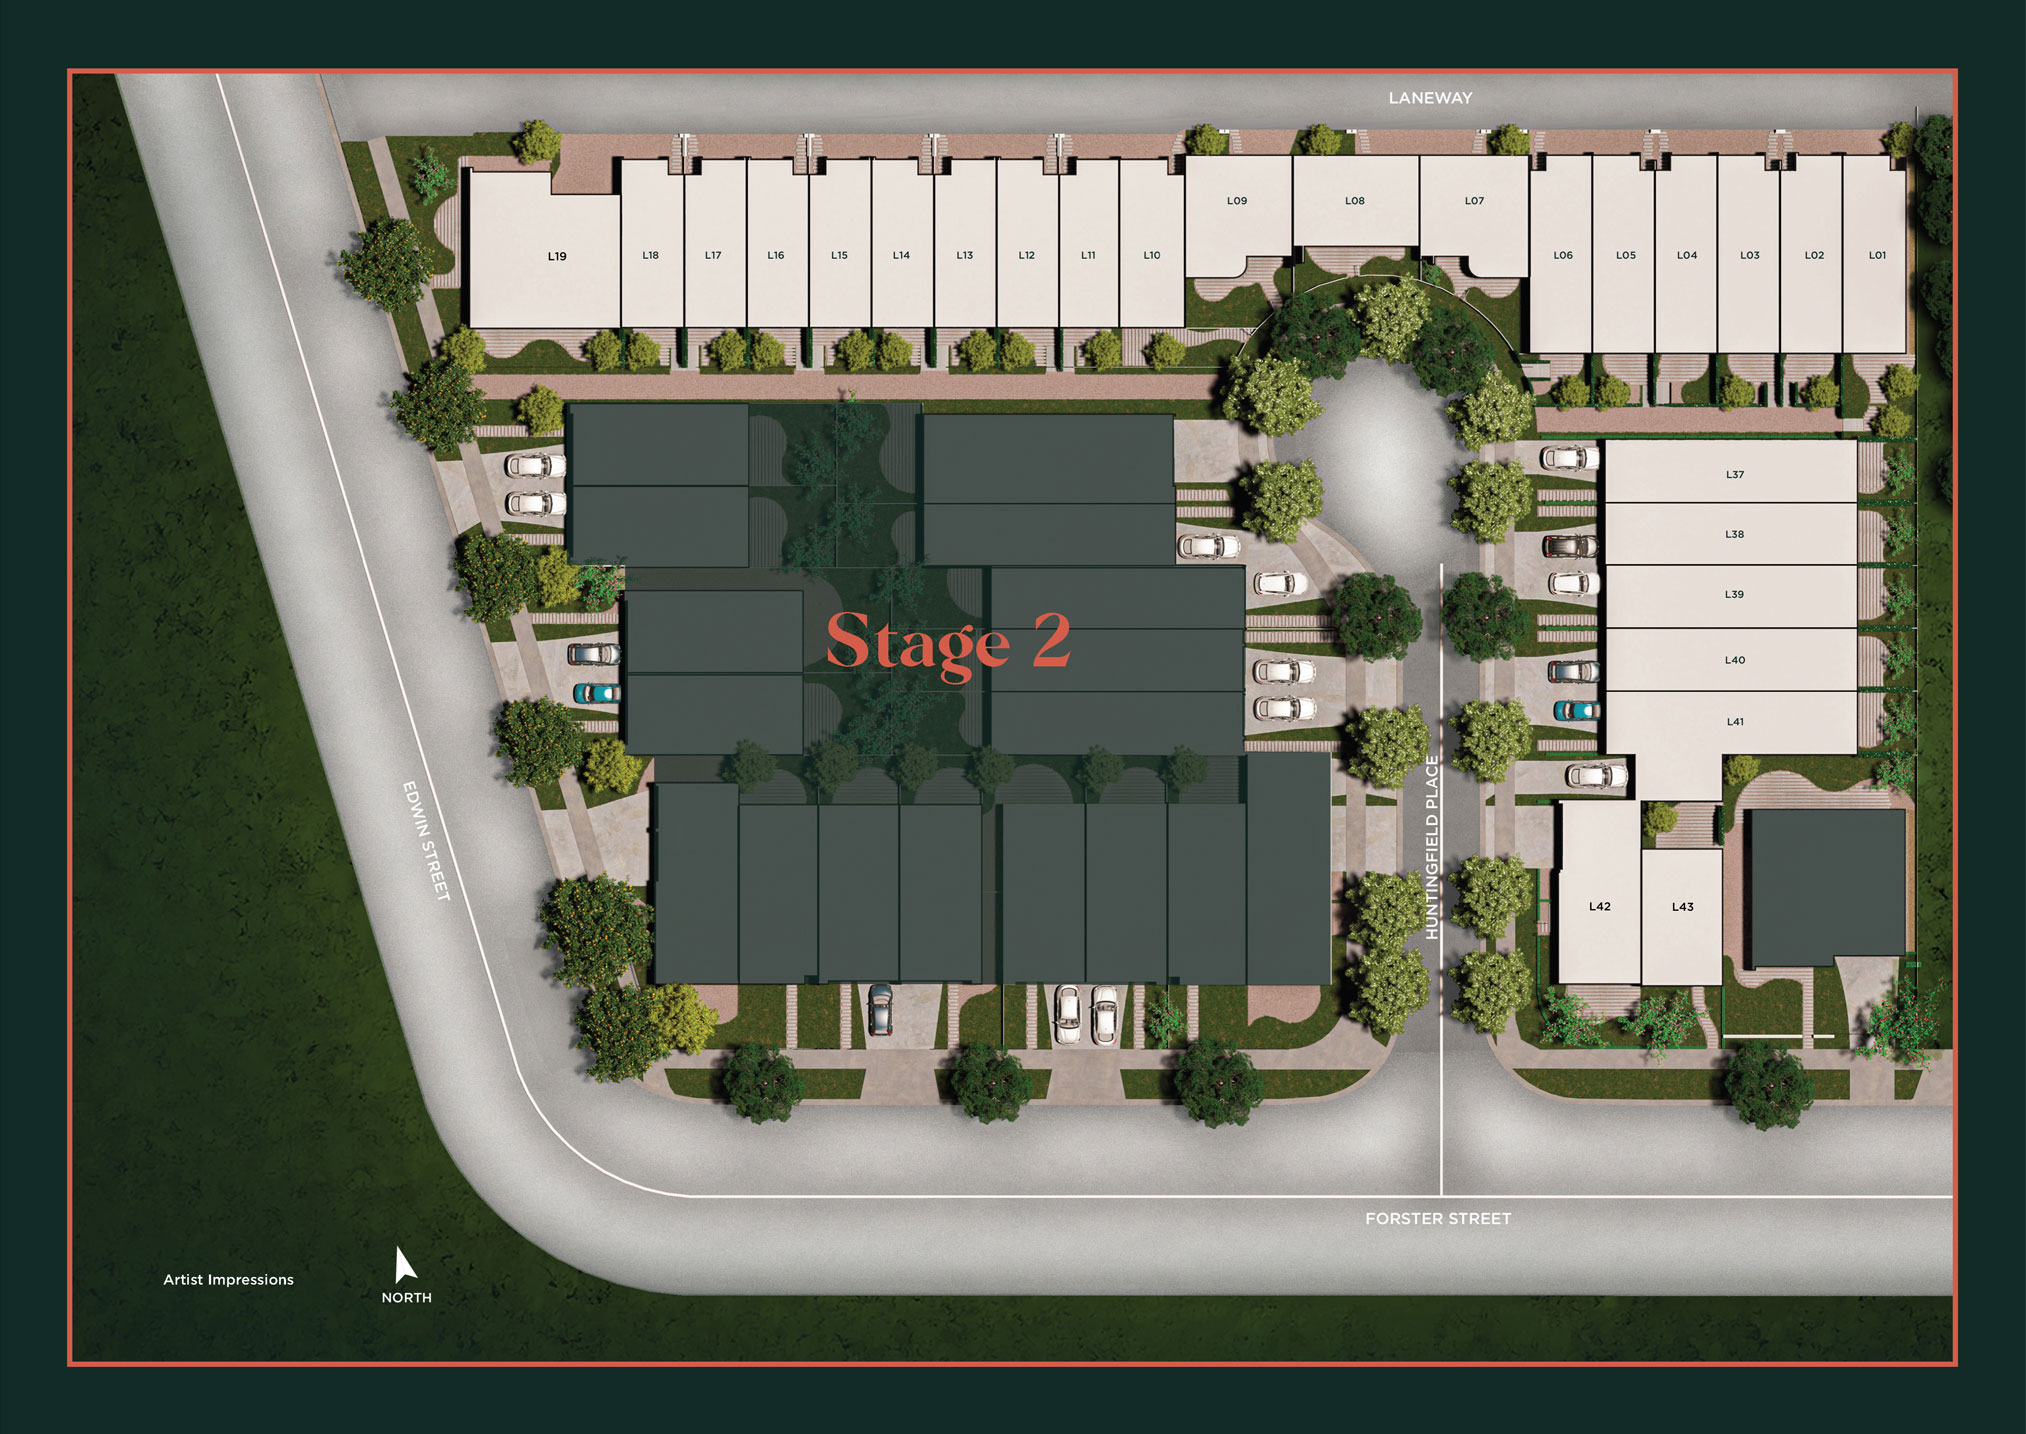
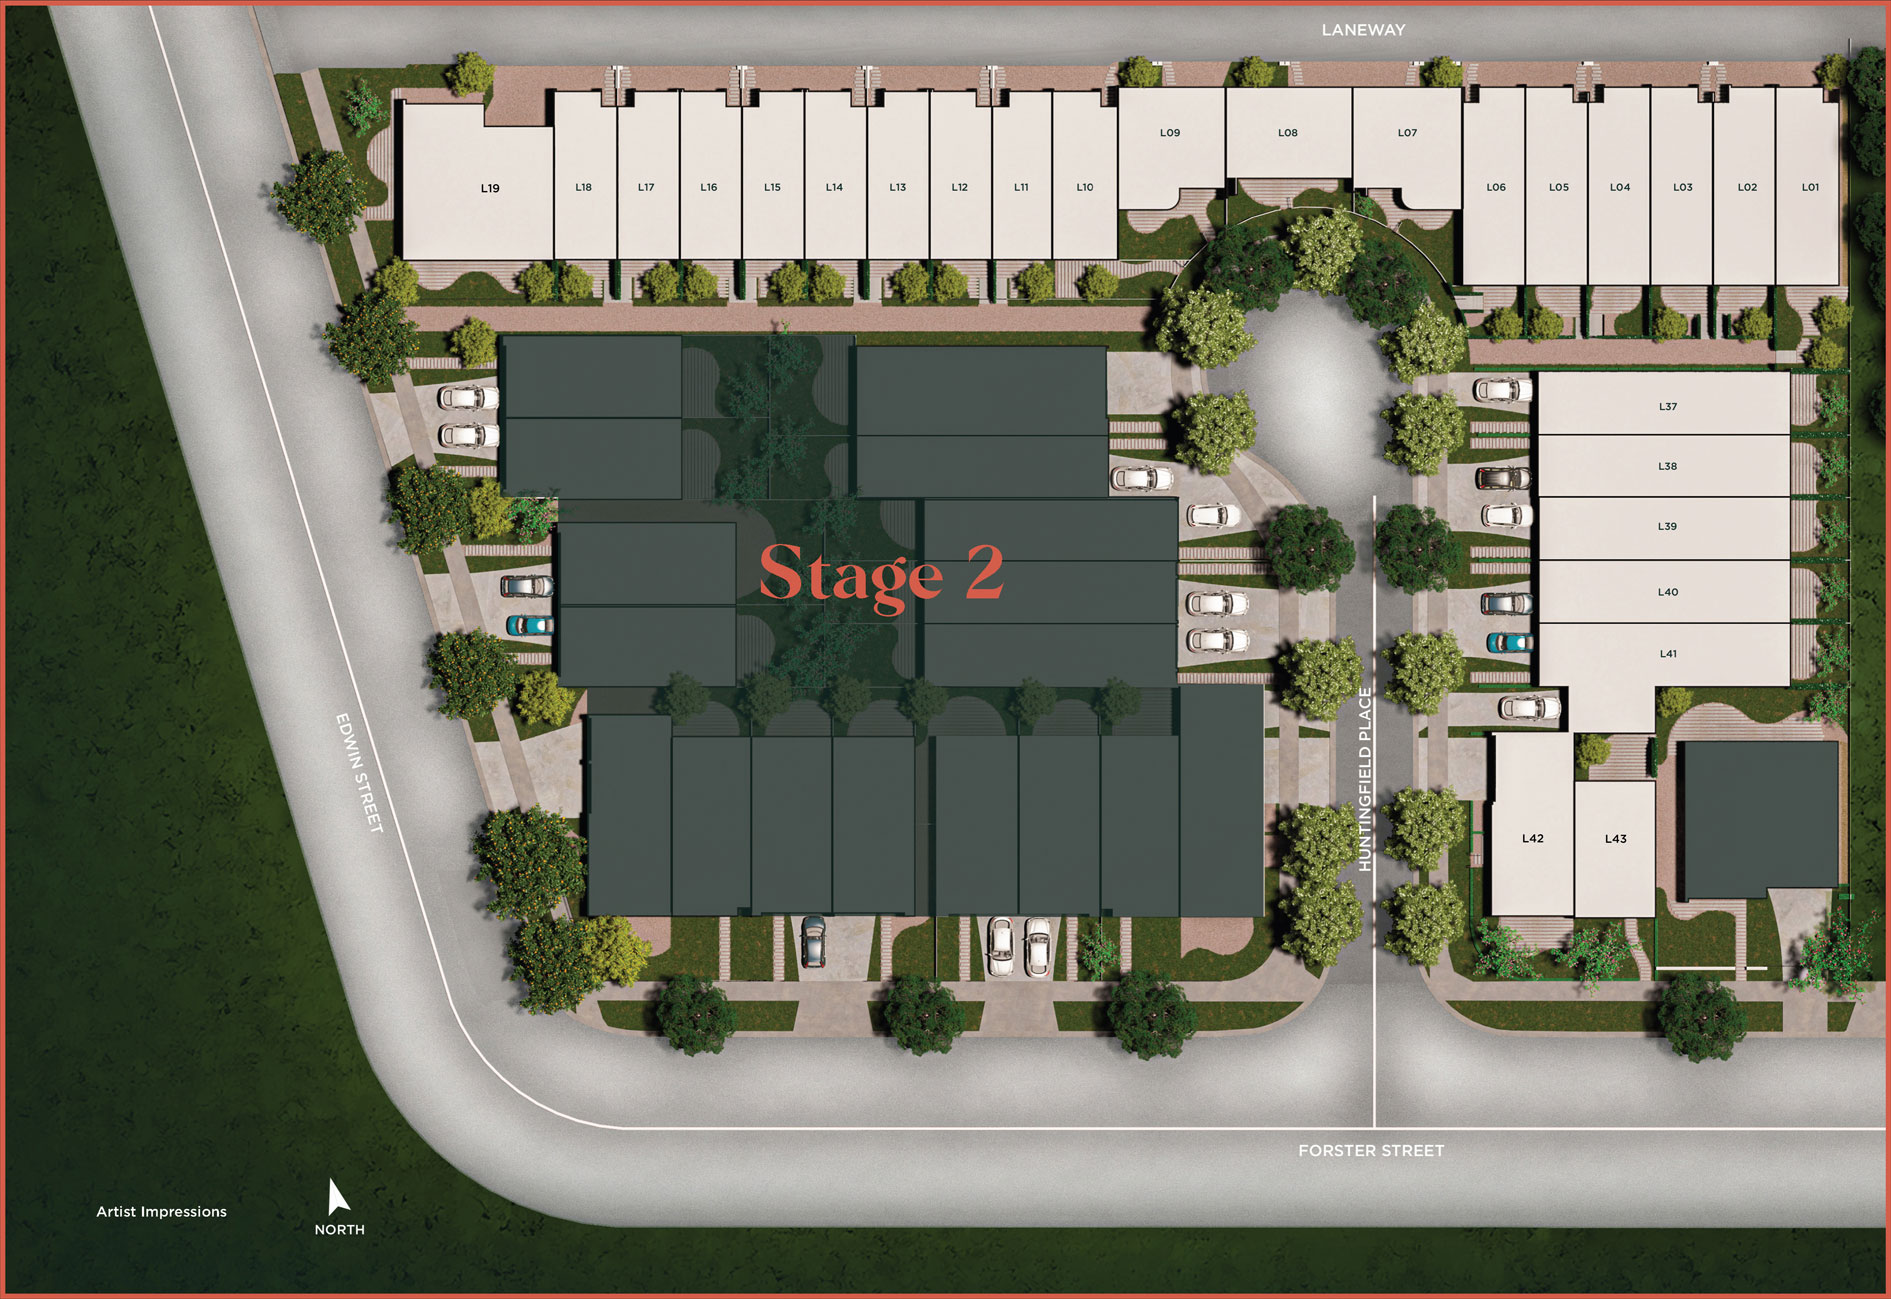
masterplan update image and update 3D page

diff --git a/masterplan.html b/masterplan.html
@@ -47,7 +47,7 @@
 		<script src="vendor/modernizr/modernizr.min.js"></script>
 
 	</head>
-	<?php echo "hello"; ?>
+	
 	<body data-plugin-page-transition>
 		<div class="body">
 			<header id="header" class="side-header d-flex">
@@ -133,58 +133,33 @@
 
 			<div role="main" class="main masterplan">
 				<!-- larger screens -->
-				<div class="container d-lg-block d-none">
-					<div class="row justify-content-start py-5 h-lg-100vh">
-                        <div class="col-lg-8 text-left appear-animation" data-appear-animation="fadeInUpShorter" data-appear-animation-delay="100" style="background-image: url('img/hfs-assets/masterplan-new.jpg'); background-size: 750px; background-position: center;">
-
-
+				<div class="container">
+					<div class="row justify-content-start py-5 h-lg-100vh d-none d-lg-flex">
+                        <div class="col-lg-8 text-left appear-animation" data-appear-animation="fadeInUpShorter" data-appear-animation-delay="100" style="background-image: url('img/hfs-assets/masterplan-new.jpg'); background-size: 100% 100%; background-position: center; background-repeat: no-repeat;">
 						</div>
-
 						<div class="col-lg-4 text-left appear-animation right-content" data-appear-animation="fadeInUpShorter" data-appear-animation-delay="100">
                                 <h1>Masterplan</h1>
                                 <p>Utilising the land to its full potential, blocks are carefully proportioned along with perfectly planned landscaping. With paid consideration to the quantity and quality of light that reaches the homes, screening plantation is placed where shade is due and at the fence for privacy purposes.</p>
-                            </div>
-						</div>
+                        </div>
 					</div>
 				</div>
 
 				<!-- smaller screens -->
-				<div class="container d-lg-none d-block">
-					<div class="row justify-content-start pt-4">
-                        <div class="col-lg-6 text-left appear-animation" data-appear-animation="fadeInUpShorter" data-appear-animation-delay="100">
-							<img class="img-fluid spg_logo" src="img/hfs-assets/Samma_Logo.png" alt="samma property group">
-                            <div class="team-content pt-3 ps-3 appear-animation" data-appear-animation="fadeInUpShorter" data-appear-animation-delay="100">
-                                <h4 class="company">Samma Property Group</h4>
-                                <p class="lead">- The Developer</p>
-                                <p>Samma is one of the very few residential development companies that have expertise in every aspect of developing, designing, building and managing residential homes.</p>
-                                <p>Our Vision and Values are the foundations upon which we operate. Our guiding light of improving Life in the City of Tomorrow directs our decisions, the way we work and the way we live.</p>
-                            </div>
-						</div>
-					</div>
-                    <div class="row justify-content-lg-end mtn-80 ">
-                        <div class="col-lg-6 text-left appear-animation" data-appear-animation="fadeInUpShorter" data-appear-animation-delay="100">
-							<img class="img-fluid dko_logo" src="img/hfs-assets/dko_logo.jpg" alt="dko architecture">
-                            <div class="team-content pt-3 ps-3 appear-animation" data-appear-animation="fadeInUpShorter" data-appear-animation-delay="100">
-                                <h4 class="company">DKO Architecture</h4>
-                                <p class="lead">- The Architect</p>
-                                <p>With a 200+ team across six studios in Australia, New Zealand and South-East Asia, DKO is a dynamic design practice whose strenght lies in Innovative design and effective delivery. Opening in 2000, DKO's expertise spans urban design, master planning, architecture and interior design. From bespoke residence to distinctive residential communitites, hotels, unique hospitality, workspace interiors, urban design and large-scale master planning, DKO is interested in exploring the relationshop between people and their environment. At the core of DKO's design philosophy lies a commitment to design that serves people, respect place and stands the test of time.</p>
-                            </div>
-						</div>
-					</div>
-
-                    <div class="row justify-content-start pb-4 mtn-80">
-                        <div class="col-lg-6 text-left appear-animation" data-appear-animation="fadeInUpShorter" data-appear-animation-delay="100">
-							<img class="img-fluid e_logo" src="img/hfs-assets/eckersley.jpg" alt="eckersley garden architecture">
-                            <div class="team-content pt-3 ps-3 appear-animation" data-appear-animation="fadeInUpShorter" data-appear-animation-delay="100">
-                                <h4 class="company">Eckersley garden architecture</h4>
-                                <p class="lead">- The Landscape Architect</p>
-                                <p>Established by iconic designer Rick Eckersley, with partners Scott Leung and Myles Broad, Eckersley Garden Architecture understand how space and facility work together. We design for lifestyle and amenity, believing both formand function should be considered and neither compromised.</p>
-                                <p>With a horticultural focus, we create relaxed and tactile gardens that invite our clients to enjoy their outdoor space. You won't find rows of box hedge here - just plety of dirt under our fingernails.</p>
-                            </div>
+				<div class="container d-lg-none d-block sm-screen">
+					<div class="row pt-4">
+						<div class="col-12">
+							
+							<img class="img-fluid" src="img/hfs-assets/masterplan-new.jpg" alt="masterplan">
+							<h1 class="mt-4 mb-3">Masterplan</h1>
+							<p>Utilising the land to its full potential, blocks are carefully proportioned along with perfectly planned landscaping. With paid consideration to the quantity and quality of light that reaches the homes, screening plantation is placed where shade is due and at the fence for privacy purposes.</p>
+						
 						</div>
 					</div>
 				</div>
-		</div>
+            </div>
+
+			</div>
+        </div>
 
 		<!-- Vendor -->
 		<script src="vendor/jquery/jquery.min.js"></script>

diff --git a/3d.html b/3d.html
@@ -136,7 +136,7 @@
 						<div class="row">
 							<div class="col-12 ">
 
-								<hyper-3d id="wrapper_3d" zoom-limit="0.5 4" point-light="0" src="assets/Huntingfield Place.obj" camera-light="0.5" elevation="10" autorotate autorotate-delay="1" autorotate-speed="0.5" autorotate-elevation="0"></hyper-3d>
+								<hyper-3d id="wrapper_3d" zoom-limit="0.5 4" point-light="0" src="assets/Huntingfield Place.obj" camera-light="0.5" elevation="10" debug direction="-45" direction-limit="-70 70" ></hyper-3d>
 
 								<div class="buttons">
 									<button onclick="document.getElementById('wrapper_3d').moveTo({ zoom: document.getElementById('wrapper_3d').zoom-0.75 });">Zoom in</button>
@@ -204,20 +204,5 @@
 		</style>
 
 		<script type="module" src="js/hyper-3d.min.js"></script>
-		<script>
-			document.getElementById('wrapper_3d').addEventListener( 'click', function(){
-				this.focus();
-			});
-			
-			document.getElementById('wrapper_3d').addEventListener( 'keydown', function(event){
-				if ( event.keyCode == 37 ) {
-					this.direction -= 5;
-					return false;
-				} else if ( event.keyCode == 39 ) {
-					this.direction += 5;
-					return false;		
-				}
-			});
-			</script>
 	</body>
 </html>
